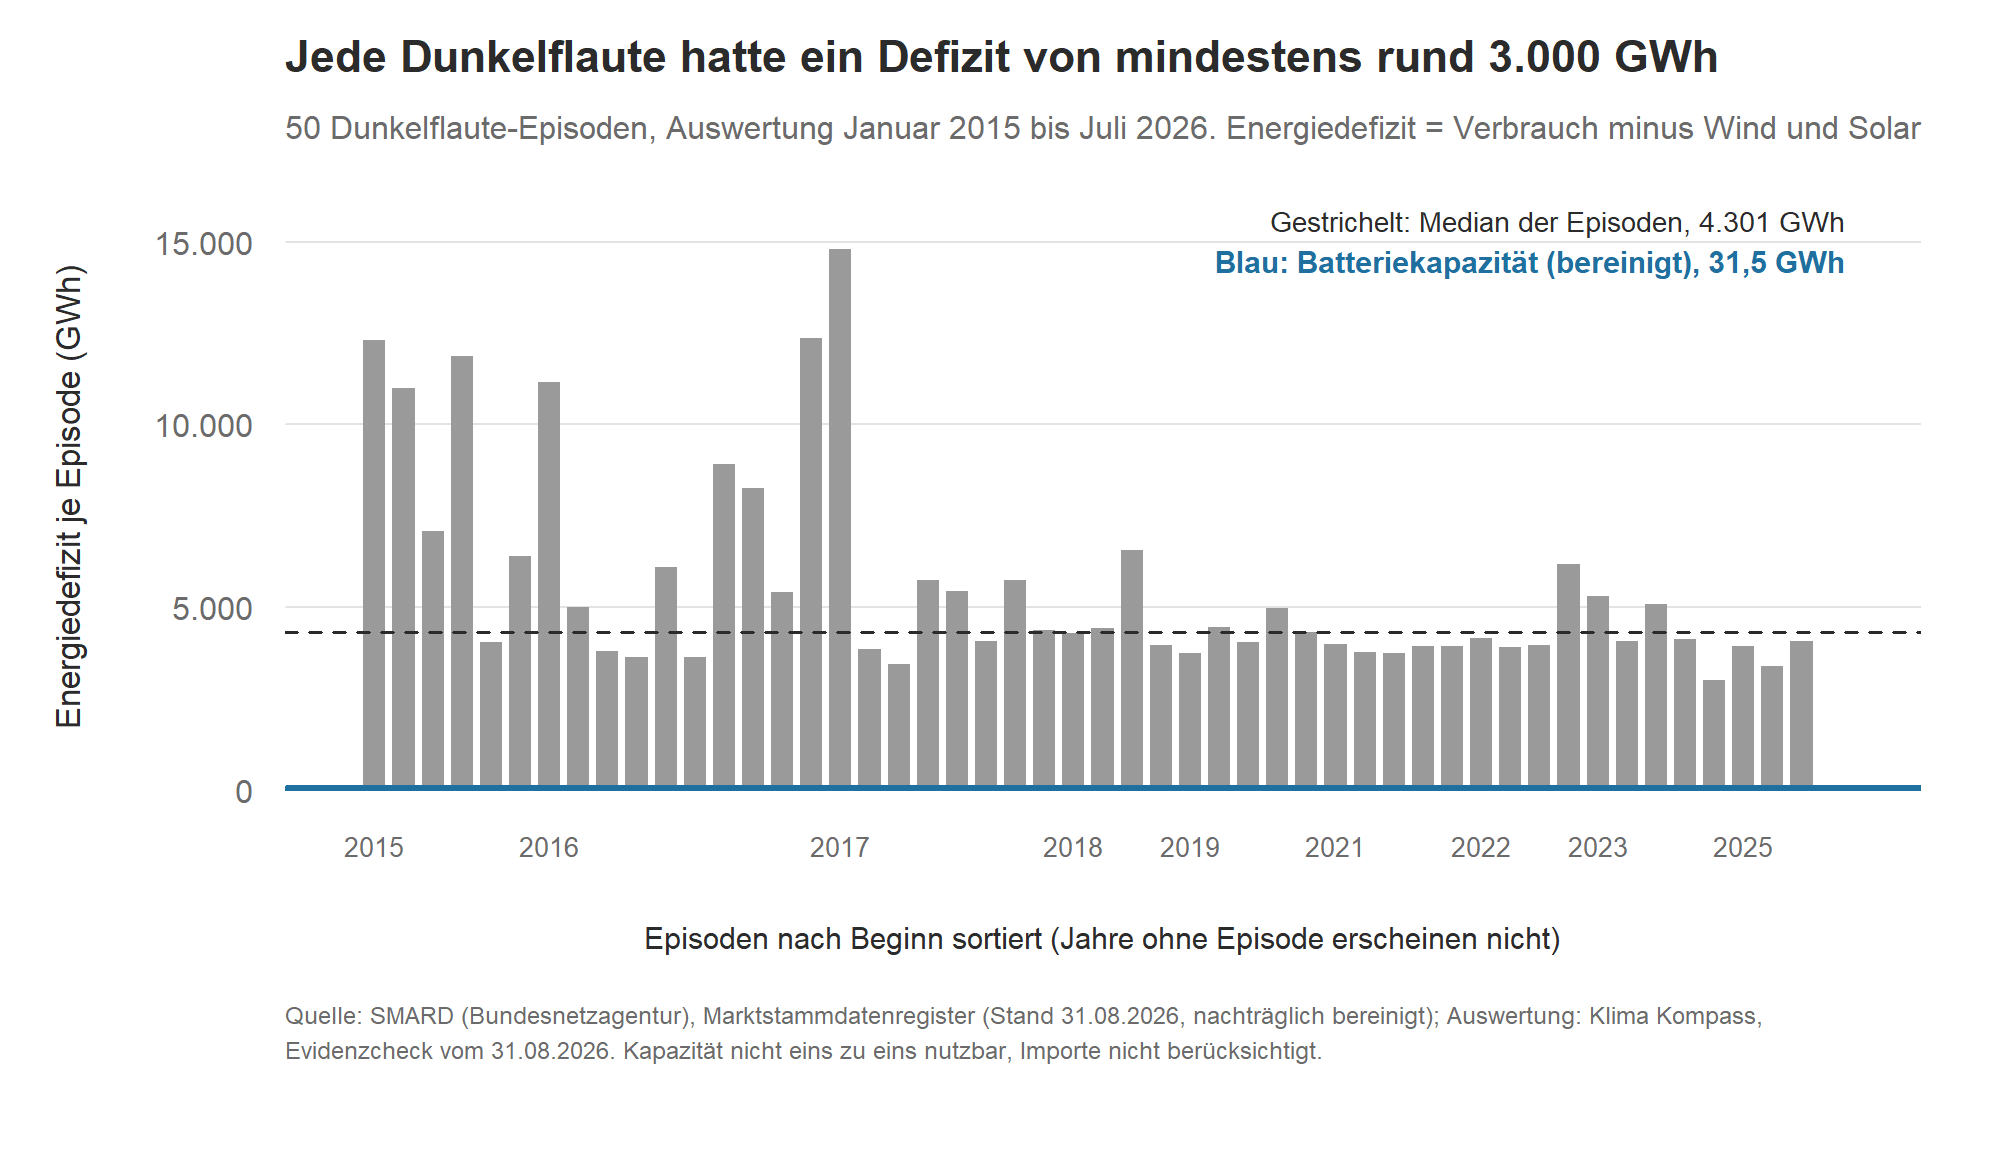
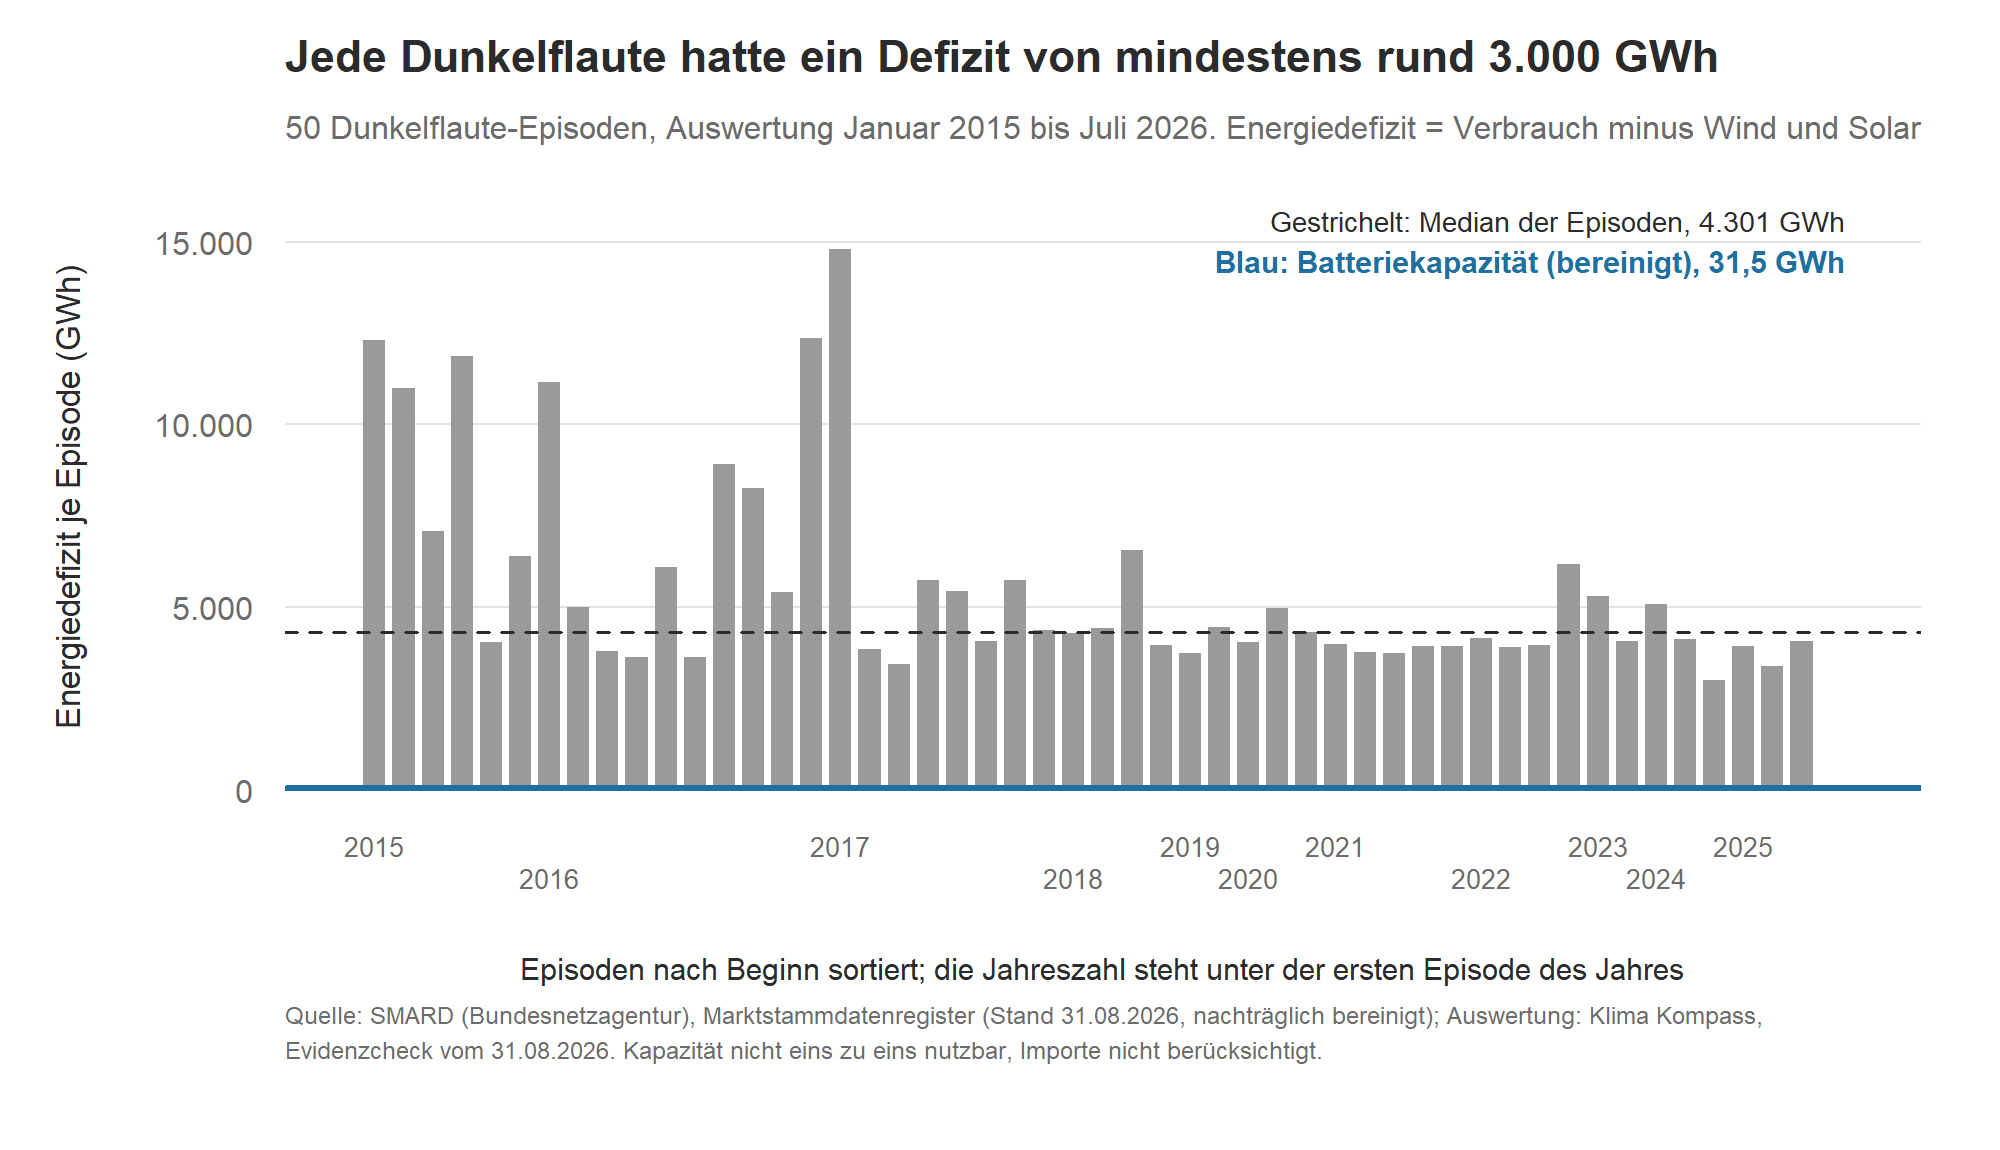
Jahrbuch 2026: Grafiken Kap. 1 und 2 ueberarbeitet (abgeschnittene/irrefuehrende Beschriftungen), gekennzeichnet; keine Zahl geaendert

diff --git a/Publikationen-oeffentlich/jahrbuch-2026/kapitel/01-sommer.md b/Publikationen-oeffentlich/jahrbuch-2026/kapitel/01-sommer.md
@@ -1,4 +1,4 @@
-**FREIGEGEBEN durch Daniel Saure am 23.10.2026 für Fassung v0.8 (Commit 9ad213d; Wortlaut: „ok ist freigegeben, danke“, nachdem Daniel angekündigt hatte: „Ich lese Kapitel 1 v0.8 jetzt vollständig und melde mich mit Freigabe oder Änderungen“). Faktencheck: `pruefung/faktencheck_kap01.md` (Nachträge 1–5, zuletzt ok mit Auflagen, N26–N30 danach eingearbeitet, eine abschließende Gegenprüfung durch den Faktenprüfer fand nicht statt). Vor Satz/Export: diese Kopfzeile, die Herkunftstabelle am Ende und die Hinweise zu Grafiken entfernen bzw. durch finale Fassung ersetzen (A14). Datenstände zum Stichtag 15.11. erneut abgleichen.**
+**NACH FREIGABE GEÄNDERT (26.10.2026: Beschriftungen der Grafiken 1 und 2 überarbeitet, Alt-Text der Grafik 2; keine Zahl verändert). FREIGEGEBEN durch Daniel Saure am 23.10.2026 für Fassung v0.8 (Commit 9ad213d; Wortlaut: „ok ist freigegeben, danke“, nachdem Daniel angekündigt hatte: „Ich lese Kapitel 1 v0.8 jetzt vollständig und melde mich mit Freigabe oder Änderungen“). Faktencheck: `pruefung/faktencheck_kap01.md` (Nachträge 1–5, zuletzt ok mit Auflagen, N26–N30 danach eingearbeitet, eine abschließende Gegenprüfung durch den Faktenprüfer fand nicht statt). Vor Satz/Export: diese Kopfzeile, die Herkunftstabelle am Ende und die Hinweise zu Grafiken entfernen bzw. durch finale Fassung ersetzen (A14). Datenstände zum Stichtag 15.11. erneut abgleichen.**
 
 
 # Kapitel 1 – War dieser Sommer normal, und was sagen die Zahlen?
@@ -39,7 +39,7 @@ Hinter diesen Zahlen stehen Menschen und ihre Angehörigen. Wir schreiben deshal
 
 Das Robert Koch-Institut (RKI) schätzt die hitzebedingten Sterbefälle jedes Sommers mit einem statistischen Modell. Wir haben diese Jahresschätzungen seit 1992 wie einzelne Studien behandelt und in einer Metaanalyse zusammengeführt. Daraus ist ein Referenzmodell für ein „normales“ Jahr entstanden [3].
 
-![Geschätzte Todesfälle durch Hitze pro Jahr 1992–2026 mit Unsicherheitsintervall und Obergrenze eines normalen Jahres](../grafiken/kap01_grafik2_todesfaelle_hitze.png)
+![Geschätzte Todesfälle durch Hitze pro Jahr 1992–2026 mit Unsicherheitsintervall und Obergrenze des 95-%-Prognoseintervalls für ein normales Jahr](../grafiken/kap01_grafik2_todesfaelle_hitze.png)
 
 *Grafik 2: Geschätzte Todesfälle durch Hitze pro Jahr. Quelle: RKI (Epidemiologisches Bulletin 19/2025 Anhang; 2025: Wochenbericht KW 38/2025, vorläufig; 2026: Wochenbericht KW 37, Stand 24. September 2026, kumuliert für KW 15 bis 37) [4][6]. Die Obergrenze von rund 8.700 stammt aus [3]. 1992 bis 2024 sind Saisonschätzungen, 2025 und 2026 sind vorläufig (unvollständige Saison). Die gestrichelte Linie zeigt die Obergrenze des 95-Prozent-Prognoseintervalls für ein normales Jahr, keinen Höchstwert. Dargestellt sind vorhandene Zahlen, keine neue Rechnung.*
 

diff --git a/Publikationen-oeffentlich/jahrbuch-2026/kapitel/14-quellenverzeichnis.md b/Publikationen-oeffentlich/jahrbuch-2026/kapitel/14-quellenverzeichnis.md
@@ -1,5 +1,5 @@
 # Quellenverzeichnis
-**ENTWURF v0.2 (24.10.2026) – automatisch aus den „Quellen“-Abschnitten der Kapitel zusammengestellt. Nummerierung je Kapitel. Einheitliche Formatierung und Stichprobe der Links folgen. Vor Satz/Export: diese Kopfzeile entfernen.**
+**ENTWURF v0.3 (26.10.2026) – automatisch aus den „Quellen“-Abschnitten der Kapitel zusammengestellt. Vor Satz/Export: diese Kopfzeile entfernen.**
 
 ## Kapitel 1 – War dieser Sommer normal, und was sagen die Zahlen?
 
@@ -11,7 +11,7 @@
 [1] Klima Kompass: „Erreicht Deutschland sein Klimaziel 2040? Die Antwort hängt vom Blickwinkel ab“, 27.08.2026. https://klimaevidenzcheck.substack.com/p/erreicht-deutschland-sein-klimaziel
 [2] Umweltbundesamt (UBA): Emissionsdaten 2025 (Stand 14.03.2026), bereitgestellt über klimadashboard.de (CC BY 4.0). https://klimadashboard.de/emissionen
 [3] Expertenrat für Klimafragen: Prüfbericht zu den Emissionsdaten 2025 und den Projektionsdaten 2026, veröffentlicht 18.05.2026 (Gesamtbudget 2021–2030: 6.199 Mt; Puffer 4,5 Mt; 50/50-Pfad 60–100 Mt über Budget). https://expertenrat-klima.de
-[4] Klima Kompass: Analysebericht Expertenrat-Budgetabgleich 2021–2030, Fassung 4, 24.10.2026 (vorläufig), und SAP v1.1 (eingefroren 29.08.2026, Erratum 1 freigegeben 23.10.2026), `Analysen/2026-08-expertenrat-budgetabgleich/`. Halbjahreswert: Agora Energiewende, Halbjahresbilanz 2026 (Pressemitteilung 28.08.2026).
+[4] Klima Kompass: Analysebericht Expertenrat-Budgetabgleich 2021–2030, Fassung 5, 26.10.2026 (vorläufig; Nachprüfung der Fassung 5 durch den Validator ausstehend), und SAP v1.1 (eingefroren 29.08.2026, Erratum 1 freigegeben 23.10.2026), `Analysen/2026-08-expertenrat-budgetabgleich/`. Halbjahreswert: Agora Energiewende, Halbjahresbilanz 2026 (Pressemitteilung 28.08.2026).
 [5] Klima Kompass: SAP „Prognose-Check #1“, v1.1, eingefroren 22.10.2026, `Analysen/2026-10-prognose-check-projektionsberichte/`.
 
 ## Kapitel 5 – Ist Deutschland „zu klein, um zu zählen“?
